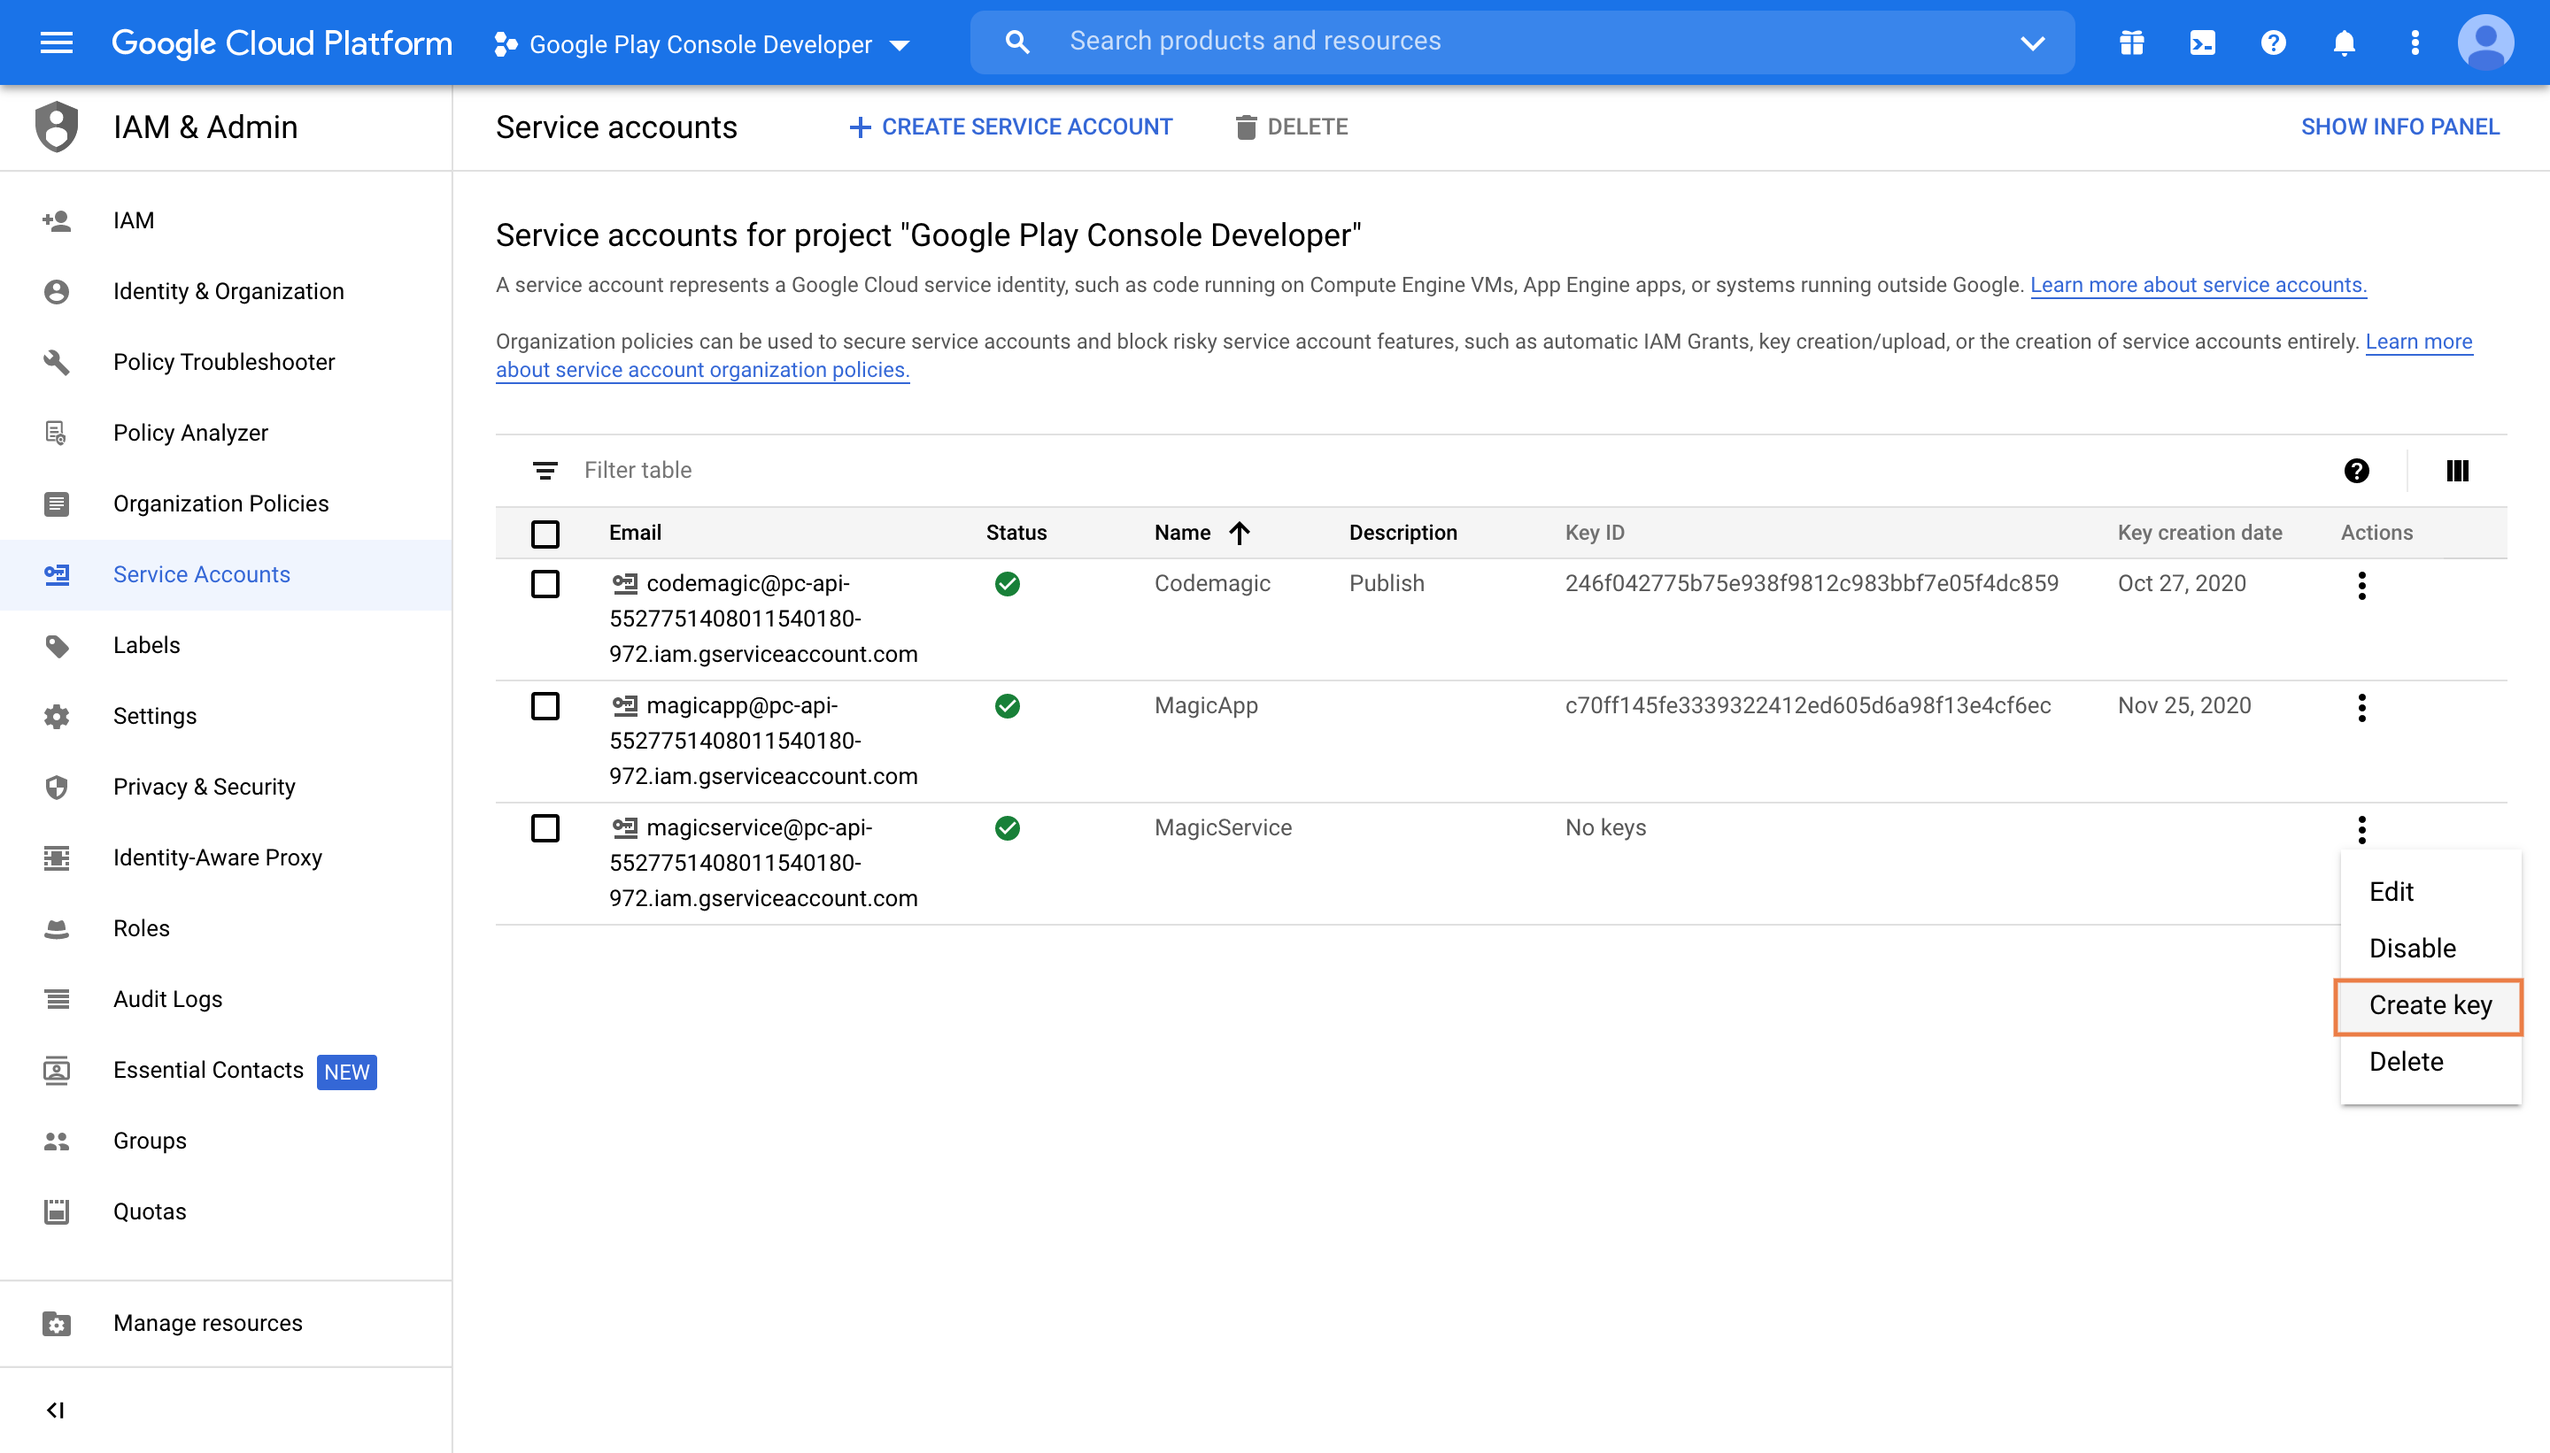
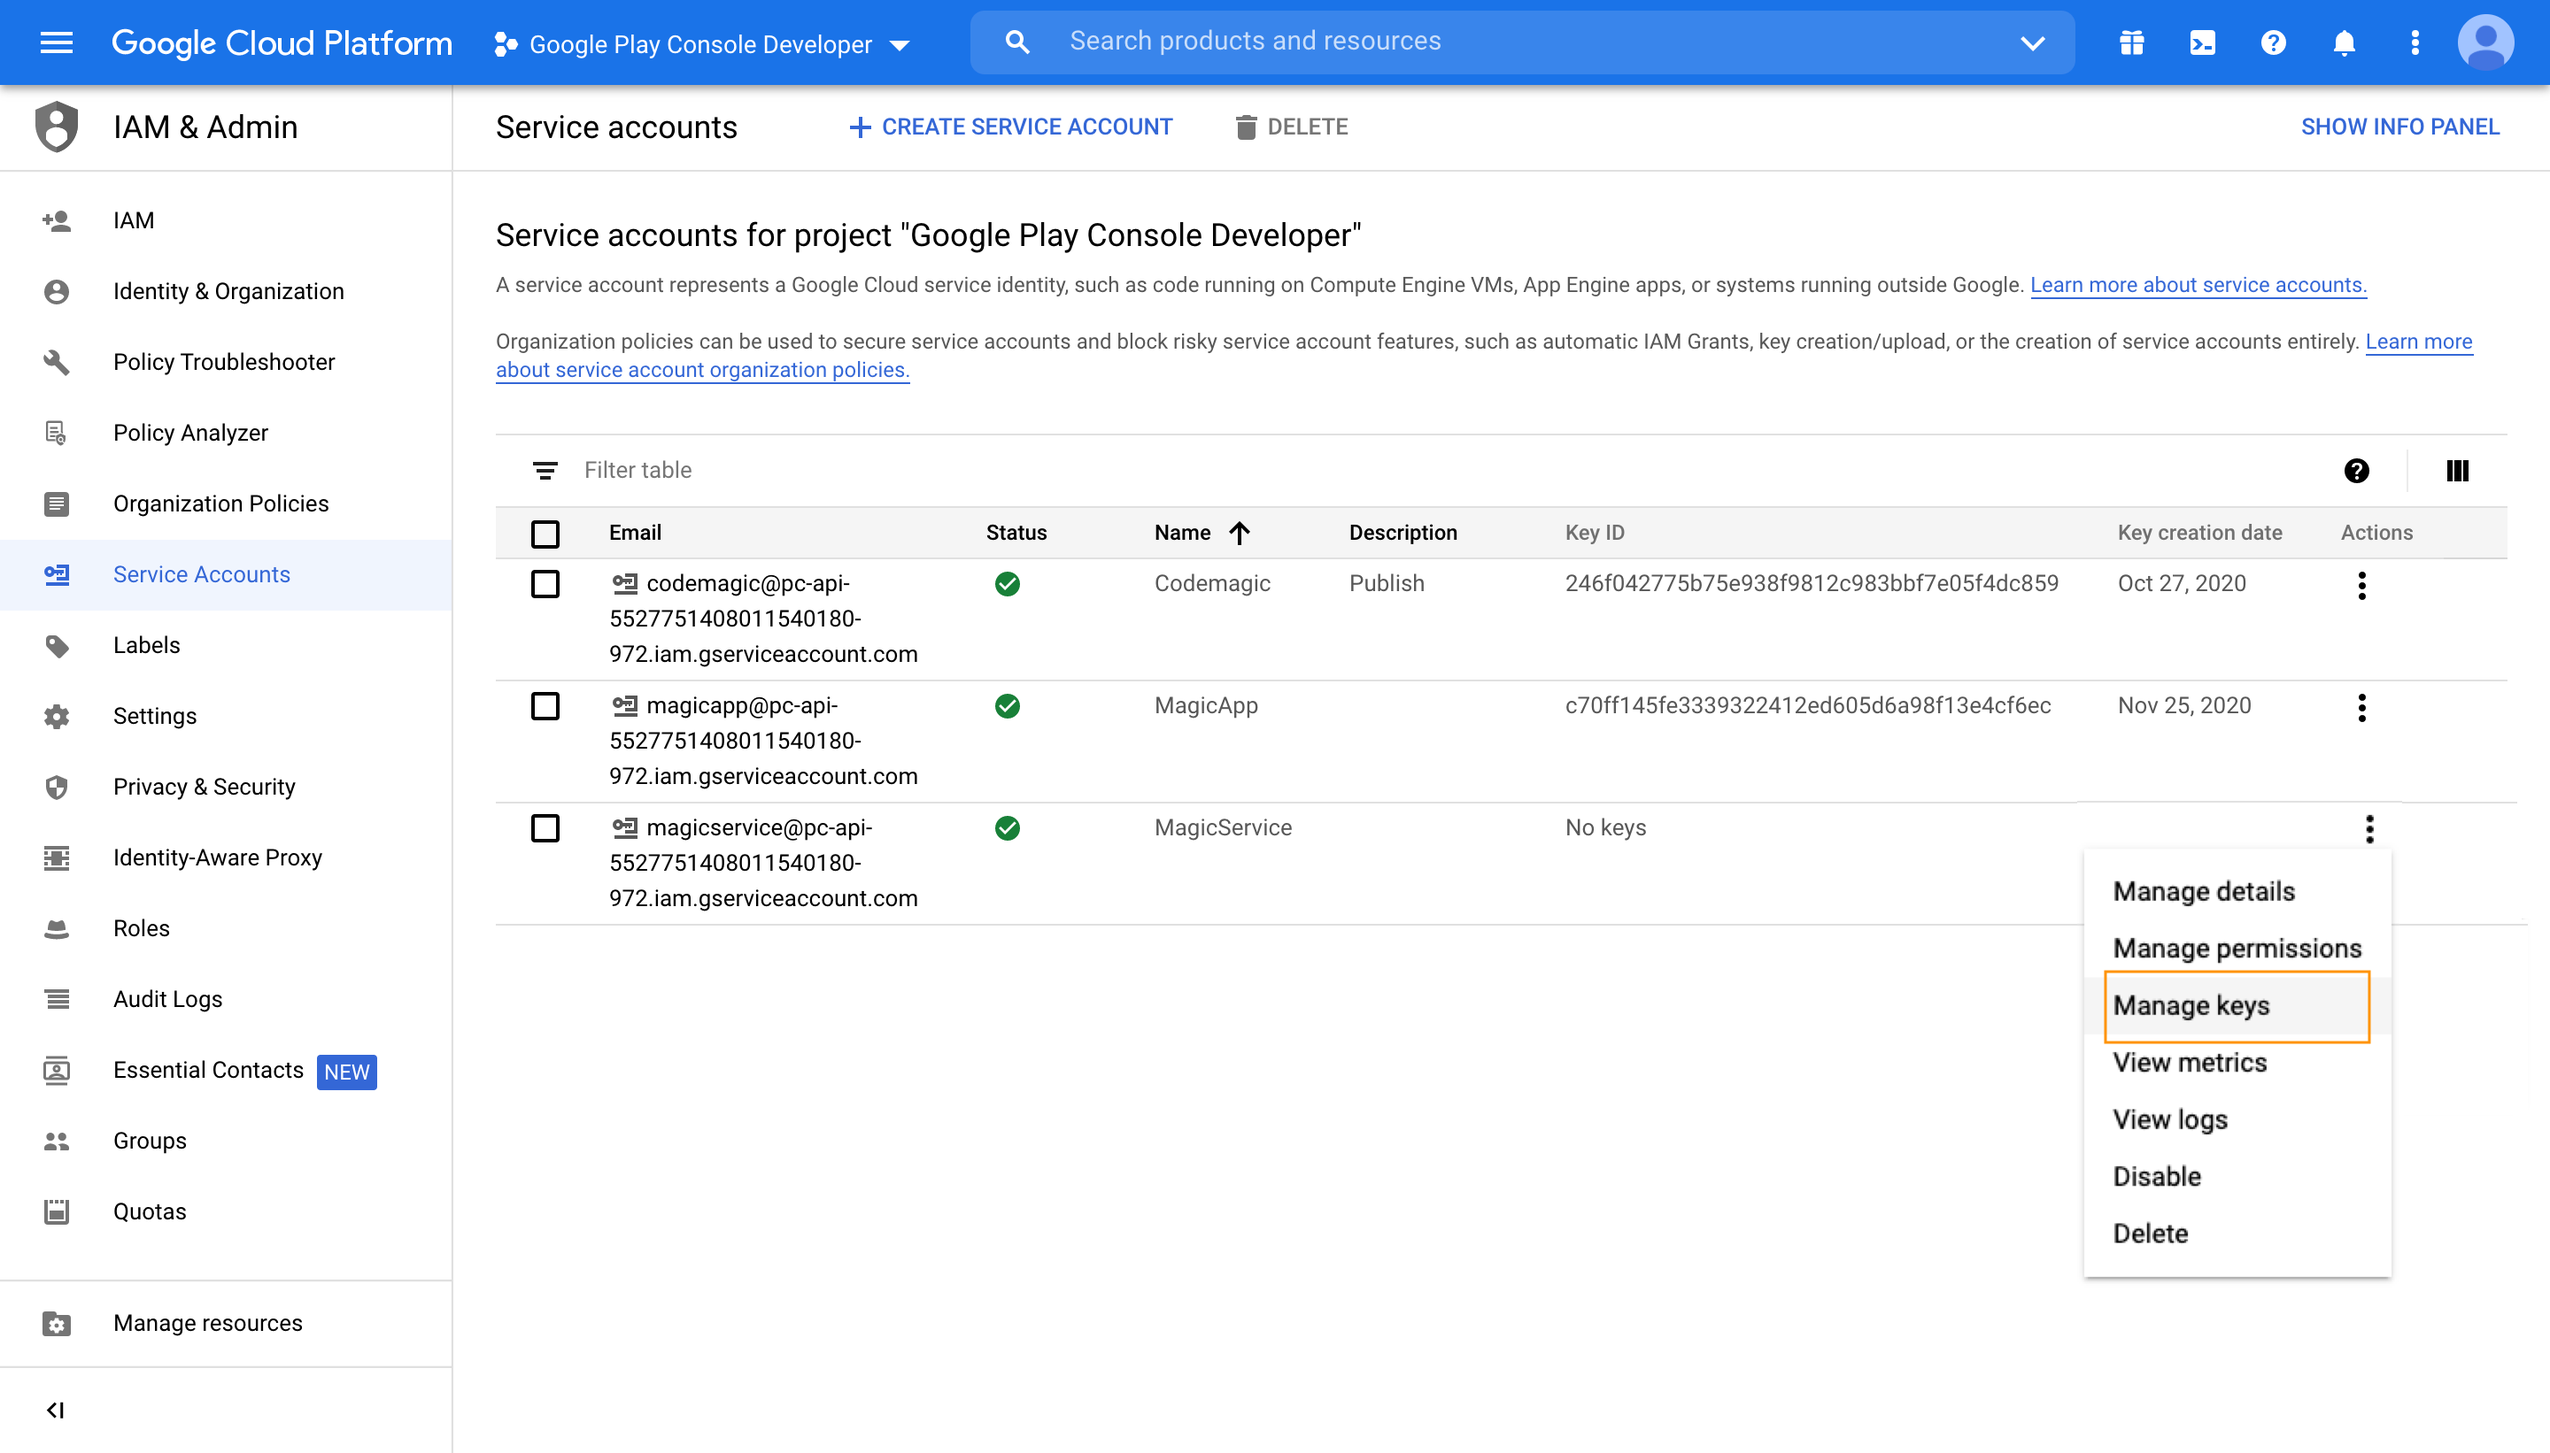
Updated google play api key docs with latest play store UI. (#262)

Changed region(s): [[0.8125, 0.5901, 1.0, 0.7765], [0.8125, 0.8076, 0.875, 0.8697]]

diff --git a/content/knowledge-base/google-play-api.md b/content/knowledge-base/google-play-api.md
@@ -16,15 +16,15 @@ In order to allow Codemagic publish applications to Google Play, it is necessary
 
 3. In step 1, fill in the **Service account details** and click **Create**. The name of the service account will allow you to identify it among other service accounts you may have created.
 
-4. In step 2, click the **Select a role** dropdown menu and choose **Project > Editor** as the role.<br><br>
+4. In step 2, click the **Select a role** dropdown menu and choose **Basic > Editor** as the role.<br><br>
 ![Google cloud editor](../uploads/google_cloud_two.png)
 
 5. In step 3, you can leave the fields blank and click **Done**.
 
-6. In the list of created service accounts, identify the account you have just created and click on the menu in the **Actions** column, then click **Create key**.<br><br>
+6. In the list of created service accounts, identify the account you have just created and click on the menu in the **Actions** column, then click **Manage keys**.<br><br>
 ![Google cloud key](../uploads/google_cloud_three.png)
 
-7. Make sure that the key type is set to `JSON` and click **Create**. Save the key file in a secure location to have it available.<br><br>
+7. In the Keys section, click **Add Key > Create new key**. Make sure that the key type is set to `JSON` and click **Create**. Save the key file in a secure location to have it available.<br><br>
 ![Google cloud json](../uploads/google_cloud_four.png)
 
 8. Navigate back to **Google Play Console > Settings > API access** and click **Grant access** next to the created account.<br><br>
@@ -33,7 +33,7 @@ In order to allow Codemagic publish applications to Google Play, it is necessary
 9. On the **App permissions** tab, add the applications you wish to grant access to.<br><br>
 ![Google play selected](../uploads/google_play_four.png)
 
-10. Go with the default settings for app permissions and click **Apply**.<br><br> 
+10. Go with the default settings for app permissions and click **Apply** (Financial data permissions can be left blank).<br><br> 
 ![Google play apply](../uploads/google_play_five.png)
 
 11. On the **Account permissions** tab, leave everything as is (there is no need to grant the service account **Admin** access).<br><br>
